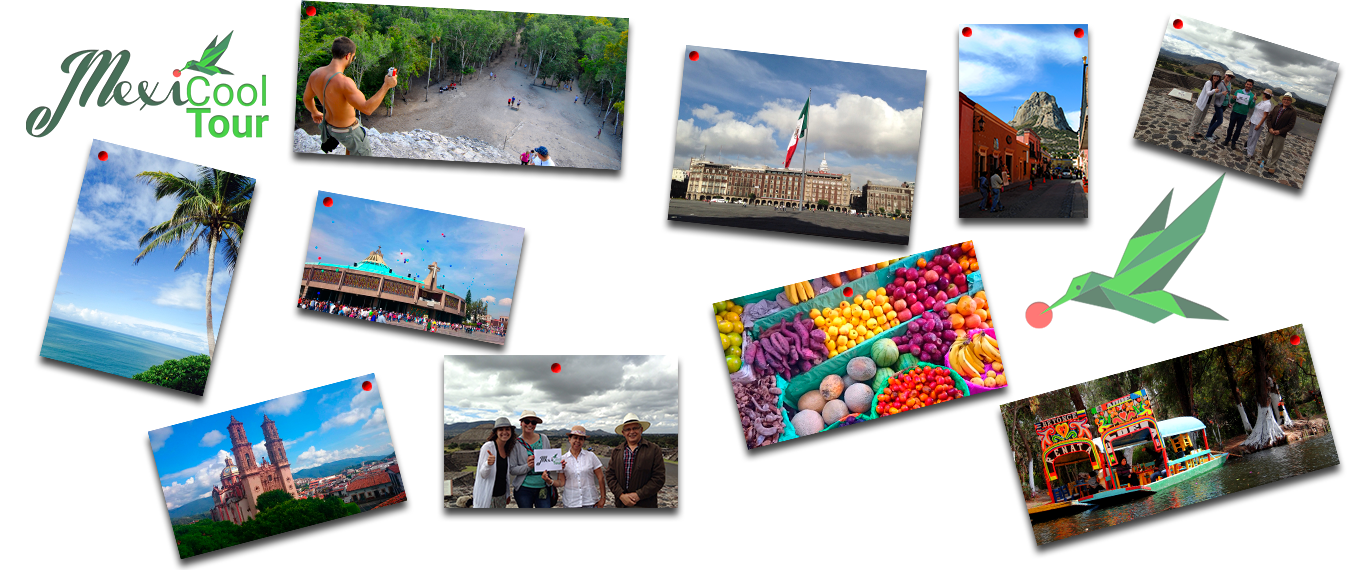
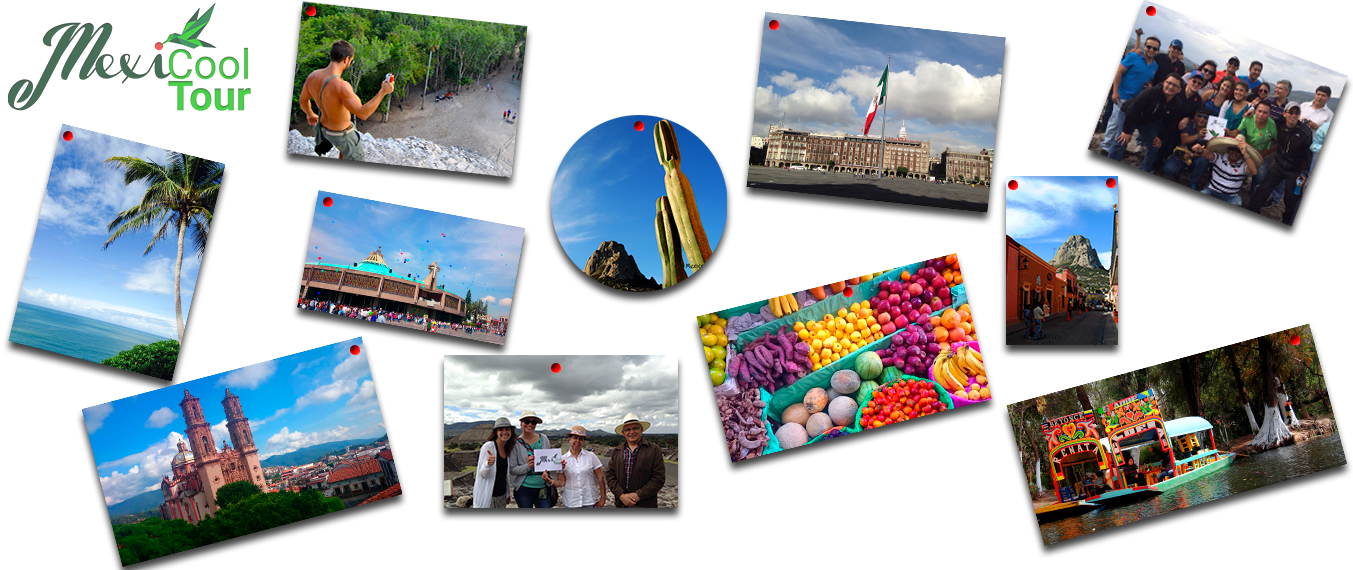
corcho contacto
corcho contacto mobile an desktop

diff --git a/css/styles.css b/css/styles.css
@@ -530,7 +530,7 @@ Subscribe
 /* ==========================================================================/* ==========================================================================
 Corcho
 ========================================================================== */
-.corcho { background: url('../img/corcho.png') no-repeat center center; -webkit-background-size: cover; -moz-background-size: cover; -o-background-size: cover; background-size: cover;  padding: 120px 0 140px; height: 550px; margin-bottom: 1em; }
+.corcho { background: url('../img/corcho.png') no-repeat center center; -webkit-background-size: cover; -moz-background-size: cover; -o-background-size: cover; background-size: cover;  padding: 75px 0 25px; height: 550px; margin-bottom: 1em; }
 /* ==========================================================================
 Promocion
 ========================================================================== */

diff --git a/contacto/index.html b/contacto/index.html
@@ -128,9 +128,12 @@
 			</div>
 		</header>
 		<section class="corcho">
-			<center>
+			<center class="hidden-xs hidden-sm">
 				<img src="../img/collage.png" alt="" class="img-responsive">
-			</center>			
+			</center>
+			<center class="hidden-sm hidden-md hidden-lg">
+				<img src="../img/collage-mobile.png" style="max-height:500px;" alt="" class="img-responsive">
+			</center>
 		</section>
 		<section class="container">
 			<div class="row roboto">
